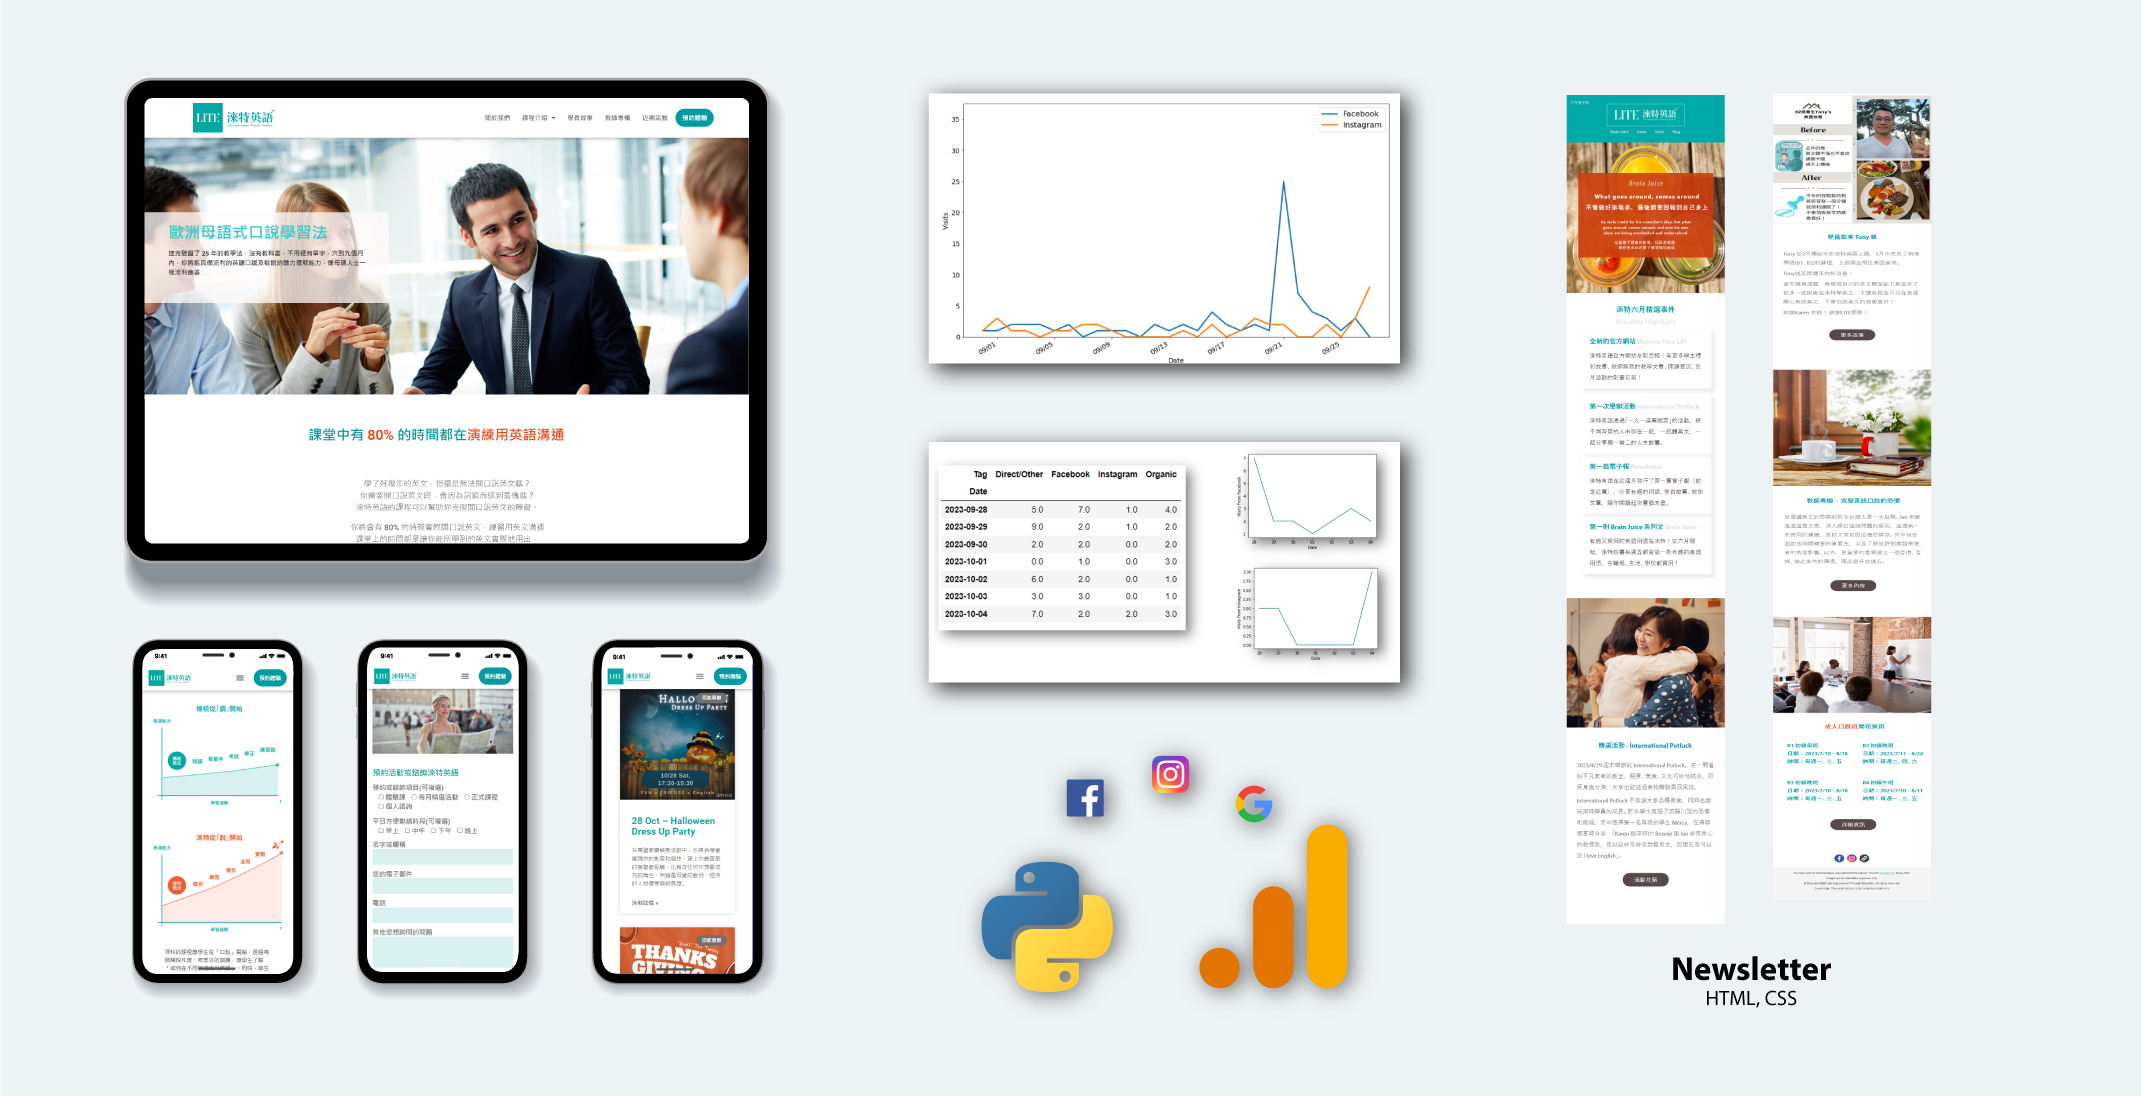
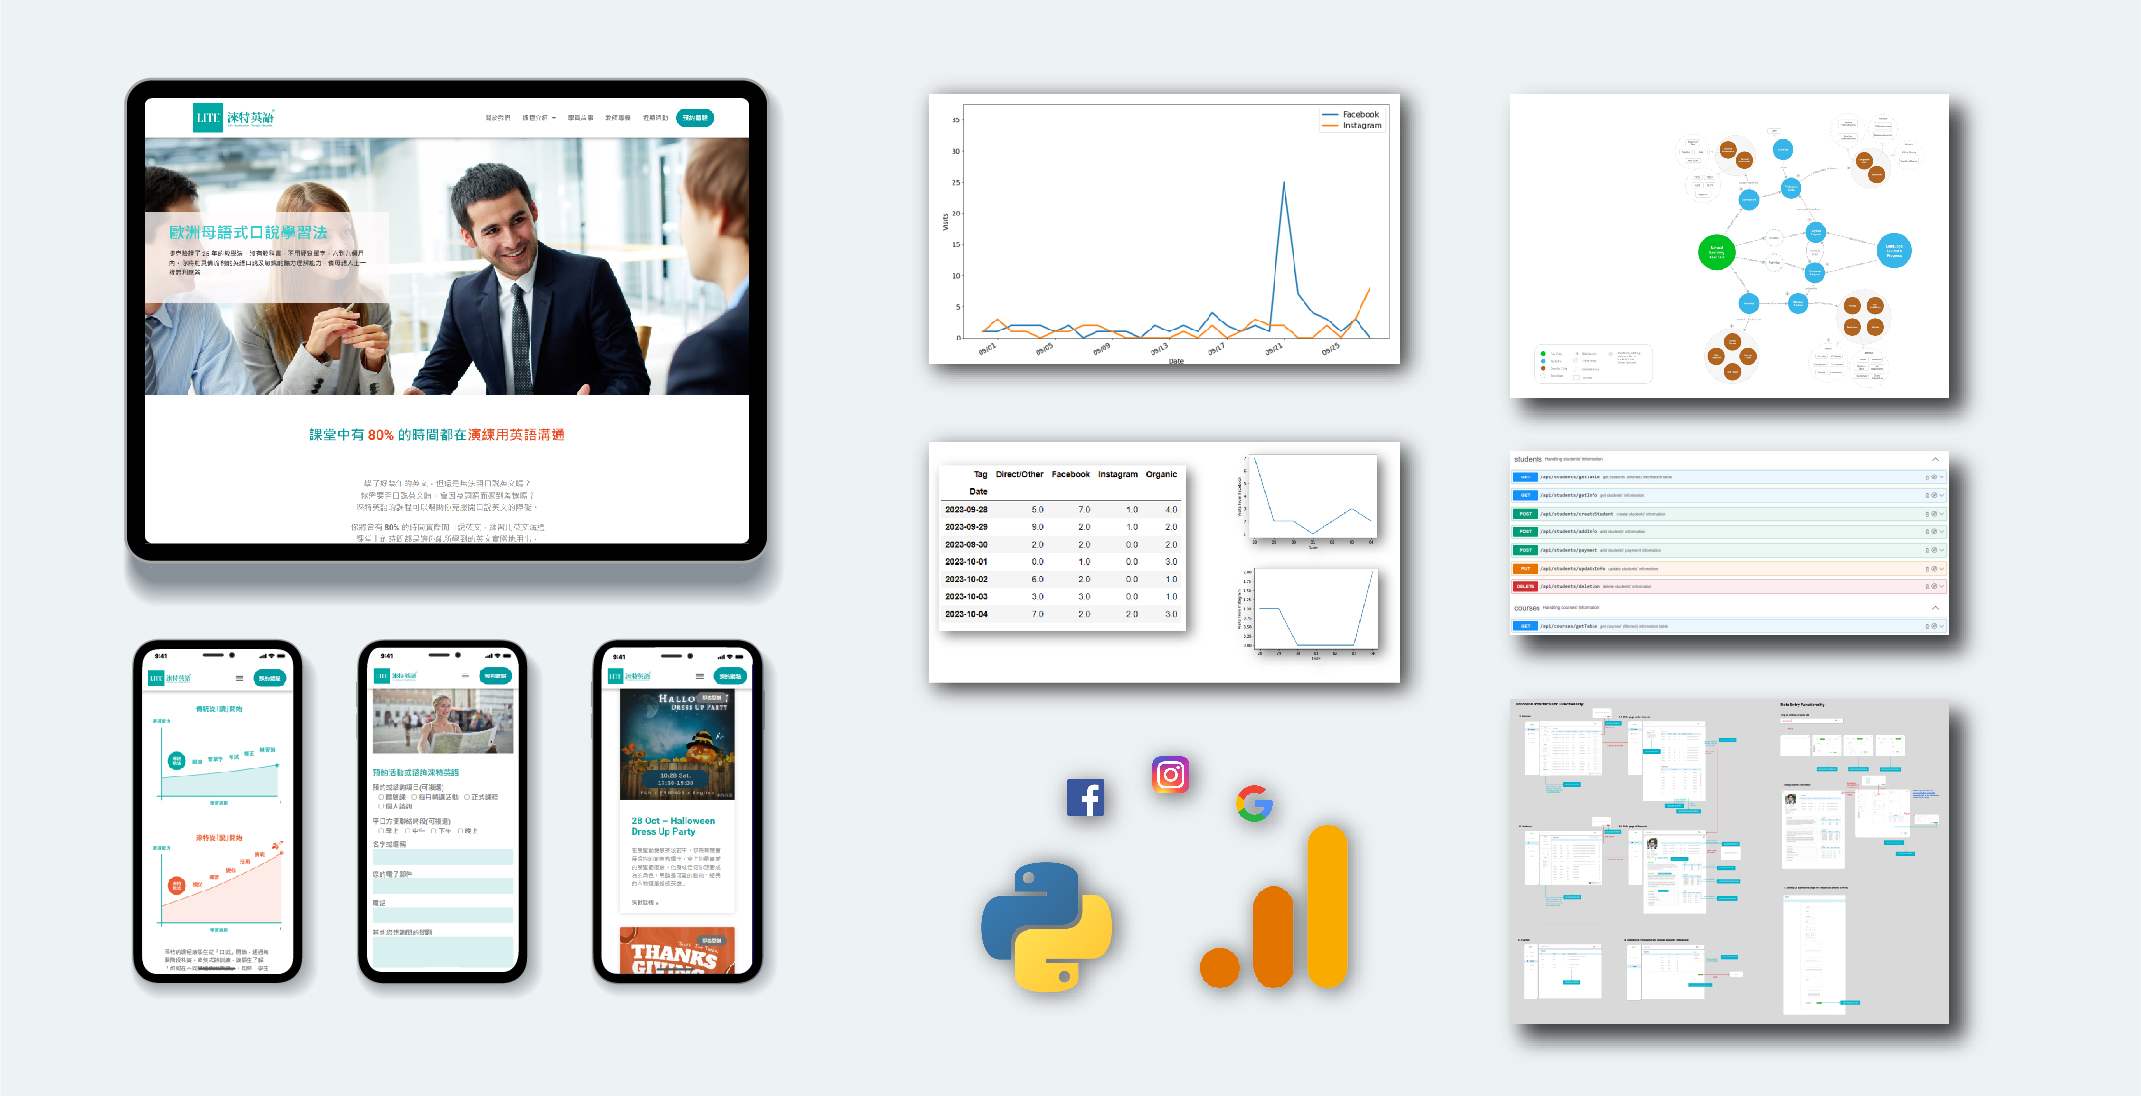
add LITE database

diff --git a/portfolio/3.js b/portfolio/3.js
@@ -32,6 +32,16 @@ TimeText.setAttribute('class' , 'paragraph-light')
 TimeText.textContent="April 2023"
 Container.appendChild(TimeText)
 
+ClientLabel = document.createElement('div')
+ClientLabel.setAttribute('class' , 'label')
+ClientLabel.textContent="client"
+Container.appendChild(ClientLabel)
+
+ClientText = document.createElement('div')
+ClientText.setAttribute('class' , 'paragraph-light')
+ClientText.textContent="LITE English School"
+Container.appendChild(ClientText)
+
 AuthorLabel = document.createElement('div')
 AuthorLabel.setAttribute('class' , 'label')
 AuthorLabel.textContent="who"
@@ -44,37 +54,32 @@ Container.appendChild(AuthorText)
 
 text = [
   {'tag':'div','class':'title','text':'Project at A Glance'},
-  {'tag':'div','class':'text','text':'1. Design and Build the Website'},     
+  {'tag':'div','class':'text','text':'1. Developing a Backend Management System to Streamline Administration'},     
   {'tag':'div','class':'text','text':'2. Automatic Traffic Report with Python and Google Analytics 4 API'}, 
   {'tag':'div','class':'text','text':'3. Optimize Customer Journey with Automation'}, 
-  {'tag':'div','class':'text','text':'4. Developing a Backend Management System to Streamline Administration'}, 
-  {'tag':'div','class':'title','text':'1. Design and Build the Website'}, 
-  {'tag':'div','class':'title','text':'Problem Statement'}, 
-  {'tag':'div','class':'text','text':'The English school had a one-page website. However, the structure of the website deterred them from the inclusion of Goolge Search. They needed a new website with more pages and themes so that it could be included in Google Search. Also, they would like to implement Digital Marketing, tracking the flow of online visitors.'},      
-  {'tag':'div','class':'title','text':'Design Concept'}, 
-  {'tag':'div','class':'text','text':'The purpose of the website was quite consumer-oriented. I needed to shorten the user journey to prompt users to leave contact information in the shortest period of time possible after they skimmed through our web content. In addition, two things really matter - brand image and credibility, so we put some sections to boost them.'},
-  {'tag':'div','class':'title','text':'Design Phases'}, 
-  {'tag':'img','src':"../image/design_phase_3.jpg"},    
-  {'tag':'div','class':'boldText','text':'Phase 1 - Emphasize'},
-  {'tag':'div','class':'text','text':'English teaching is a red sea market in Taiwan. What is more, now people use online platforms to learn English. It became a disadvantage for this English school since they insisted students learn English face-to-face. Therefore, I did competitive analysis and sorted out their advantages and unique selling points. I also reviewed some testimonials from students who attended the class in the headquater.'},
-   {'tag':'img','src':"../image/competitive_analysis_p3.jpg"},  
-   {'tag':'img','src':"../image/Testimonials_p3.jpg"},  
-  {'tag':'div','class':'boldText','text':'Phase 2 - Define'},
-  {'tag':'div','class':'text','text':'At the stage, we discovered some problems we should prioritize in building the website. First, English learning was an extremely competitive market. For a latecomer, we should have a unique value proposition. Second, we should expose our website properly so that people could find us. Third, it matters to build credibility, especially for a new English school.'},
-     {'tag':'img','src':"../image/Value_proposition_p3.jpg"}, 
-  {'tag':'div','class':'boldText','text':'Phase 3 - Ideate'},
-  {'tag':'div','class':'text','text':"To solve the problems we've listed at the previous stage, I discussed the information architecture with the English teachers. We decided to add two sections, Teachers' Blog and Events, other than About Us and Courses. By doing so, we expected to build our brand image and enhance credibility."},
-  {'tag':'img','src':"../image/information_architecture_p3.jpg"}, 
-  {'tag':'div','class':'text','text':"Judging from the advantages of this English school, we highlighted some keywords for SEO and value proposition. Every banner photo we chose should also suit the brand image. This English school was not positioned purely as a cram school. Instead, it aimed to create a 0% fear 100% confidence learning environment, in hope of equipping learners with the courage to learn other new things more than just English."},
-  {'tag':'div','class':'text','text':"Though they were a small company, they wanted to look like a trustworthy and credible company. Therefore, we decided that consistency should be the key to the website. The colors, fonts, layouts and contents should follow a specific design rule."},
-  {'tag':'div','class':'text','text':"Finally, we expected to open an article section where they could continuously upload articles about idioms, phrases, etc. In fact, there were hundreds of people looking for a proper English word to capture the meaning of their thoughts they could only express in Chinese. With the section, we could allow this kind of audience to reach our website."},
-    {'tag':'img','src':"../image/article_p3.jpg"},
-  {'tag':'div','class':'boldText','text':'Phase 4 - Prototype and Test'},
-  {'tag':'div','class':'text','text':'I used Adobe XD to make the low-fidelity prototype in the first place. Once I made sure those English teachers were on the same page, I moved on to create high-fidelity prototype. After the functionality and design were all confirmed and tested, I used Wordpress to build the webiste.'},
-  {'tag':'img','src':"../image/prototype_p3.jpg"},
+  {'tag':'div','class':'text','text':'4. Design and Build the Website'}, 
 
+  {'tag':'div','class':'title','text':'1. Developing a Backend Management System to Streamline Administration'}, 
+  {'tag':'div','class':'text','text':"To design a intranet management system, I adopted user research and information architecture evaluation approaches. It involved qualitative research to delve into the problem space. I interviewed the stakeholdes back and forth for many times and came up with two domain models, one of which focuses on the technical aspect and the other user aspect."},
+  {'tag':'img','src':"../image/LITE_domain_model_1.jpg"},
+  {'tag':'div','class':'text','text':"The domain model is based on the thematic findings of the interview data. It illustrates user-centered perspectives and the relationship between each stakeholders and domains."},
+  {'tag':'img','src':"../image/LITE_domain_model_2.jpg"},
+  {'tag':'div','class':'text','text':"Drawing upon the thematic findings, I looked into the problem space and designed the technical domain model, which could be a reference for database design."},
+  {'tag':'img','src':"../image/LITE_sitemap.jpg"},
+  {'tag':'div','class':'text','text':"Considering the information the client relied on for business operation, I designed the sitemap with the database structure seamlessly taking into account. This sitemap is suitable for developers. For my client who didn't have strong technical backgrounds, I made another one to explain the concept. The one for the client is as follows."},
+  {'tag':'img','src':"../image/LITE_sitemap2.jpg"},
+  {'tag':'div','class':'text','text':"The same applied to user journey. I tend to make one for developers and another one for my client. In this way, I can mitigate the risk of design-development gap and streamline the development process."},
+  {'tag':'img','src':"../image/LITE_userJourney.jpg"},
+  {'tag':'div','class':'text','text':"The one below was for my client."},
+  {'tag':'img','src':"../image/LITE_userJourney2.jpg"},
+  {'tag':'div','class':'text','text':"Now it's time to sketch the wireframe and conduct user study. It was an iterative process. Every time a user study was conducted or a client was interviewed, there were new or change of features. After we came to a consensus, I combined the frontned technical requirements with the backend, composing the API documents for clearer frontend information management and integrating them into a design document. The one below is the database structure."},
+  {'tag':'img','src':"../image/LITE_database.jpg"},
+  {'tag':'div','class':'text','text':"The API document below was used to orchestrate with the database and the backend."},
+  {'tag':'img','src':"../image/LITE_API.jpg"},
+  {'tag':'div','class':'text','text':"The technical requirements for API endpoints were annotated on the wireframe. It provides a thorough and comprehensive view of the technical implementation."},
+  {'tag':'img','src':"../image/LITE_designDoc.jpg"},
 
-
+ 
   {
   'tag':'div',
   'class':'title',
@@ -145,9 +150,32 @@ text = [
    {'tag':'div','class':'text','text':"Lastly, in case the consumer shows willingness to enroll but forgets to add LINE, I set up LINE Notify to direct contact form messages from email to LINE. At this point, the founder could check her smartphone for inquires. If she thought the person has high potential, she could contact them directly via phone numbers. The big picture is as follows."},
    {'tag':'img','src':"../image/line_notify.jpg"},
     {'tag':'div','class':'text','text':"By doing so, the founder doesn't need to check the email to reply to inquires from time to time. The practice allows for automatical broadcast of high-potential consumer contact info to her."},
-   {'tag':'div','class':'title','text':'4. Developing a Backend Management System to Streamline Administration'}, 
-   {'tag':'div','class':'text','text':"In progress...currently at the user research stage"},
-
+   
+    {'tag':'div','class':'title','text':'4. Design and Build the Website'}, 
+    {'tag':'div','class':'title','text':'Problem Statement'}, 
+    {'tag':'div','class':'text','text':'The English school had a one-page website. However, the structure of the website deterred them from the inclusion of Goolge Search. They needed a new website with more pages and themes so that it could be included in Google Search. Also, they would like to implement Digital Marketing, tracking the flow of online visitors.'},      
+    {'tag':'div','class':'title','text':'Design Concept'}, 
+    {'tag':'div','class':'text','text':'The purpose of the website was quite consumer-oriented. I needed to shorten the user journey to prompt users to leave contact information in the shortest period of time possible after they skimmed through our web content. In addition, two things really matter - brand image and credibility, so we put some sections to boost them.'},
+    {'tag':'div','class':'title','text':'Design Phases'}, 
+    {'tag':'img','src':"../image/design_phase_3.jpg"},    
+    {'tag':'div','class':'boldText','text':'Phase 1 - Emphasize'},
+    {'tag':'div','class':'text','text':'English teaching is a red sea market in Taiwan. What is more, now people use online platforms to learn English. It became a disadvantage for this English school since they insisted students learn English face-to-face. Therefore, I did competitive analysis and sorted out their advantages and unique selling points. I also reviewed some testimonials from students who attended the class in the headquater.'},
+     {'tag':'img','src':"../image/competitive_analysis_p3.jpg"},  
+     {'tag':'img','src':"../image/Testimonials_p3.jpg"},  
+    {'tag':'div','class':'boldText','text':'Phase 2 - Define'},
+    {'tag':'div','class':'text','text':'At the stage, we discovered some problems we should prioritize in building the website. First, English learning was an extremely competitive market. For a latecomer, we should have a unique value proposition. Second, we should expose our website properly so that people could find us. Third, it matters to build credibility, especially for a new English school.'},
+       {'tag':'img','src':"../image/Value_proposition_p3.jpg"}, 
+    {'tag':'div','class':'boldText','text':'Phase 3 - Ideate'},
+    {'tag':'div','class':'text','text':"To solve the problems we've listed at the previous stage, I discussed the information architecture with the English teachers. We decided to add two sections, Teachers' Blog and Events, other than About Us and Courses. By doing so, we expected to build our brand image and enhance credibility."},
+    {'tag':'img','src':"../image/information_architecture_p3.jpg"}, 
+    {'tag':'div','class':'text','text':"Judging from the advantages of this English school, we highlighted some keywords for SEO and value proposition. Every banner photo we chose should also suit the brand image. This English school was not positioned purely as a cram school. Instead, it aimed to create a 0% fear 100% confidence learning environment, in hope of equipping learners with the courage to learn other new things more than just English."},
+    {'tag':'div','class':'text','text':"Though they were a small company, they wanted to look like a trustworthy and credible company. Therefore, we decided that consistency should be the key to the website. The colors, fonts, layouts and contents should follow a specific design rule."},
+    {'tag':'div','class':'text','text':"Finally, we expected to open an article section where they could continuously upload articles about idioms, phrases, etc. In fact, there were hundreds of people looking for a proper English word to capture the meaning of their thoughts they could only express in Chinese. With the section, we could allow this kind of audience to reach our website."},
+      {'tag':'img','src':"../image/article_p3.jpg"},
+    {'tag':'div','class':'boldText','text':'Phase 4 - Prototype and Test'},
+    {'tag':'div','class':'text','text':'I used Adobe XD to make the low-fidelity prototype in the first place. Once I made sure those English teachers were on the same page, I moved on to create high-fidelity prototype. After the functionality and design were all confirmed and tested, I used Wordpress to build the webiste.'},
+    {'tag':'img','src':"../image/prototype_p3.jpg"},
+  
    
 ]
 

diff --git a/portfolio/6.js b/portfolio/6.js
@@ -9,7 +9,7 @@ Section.appendChild(Container)
 
 titleText = document.createElement('div')
 titleText.setAttribute('class' , 'title')
-titleText.textContent="UX, Frontend - Network Graph Visualization"
+titleText.textContent="UX, Frontend - Knowledge Navigation Map"
 Container.appendChild(titleText)
 
 DescLabel = document.createElement('div')
@@ -20,7 +20,7 @@ Container.appendChild(DescLabel)
 
 DescText = document.createElement('div')
 DescText.setAttribute('class' , 'paragraph-light')
-DescText.textContent="The project is currently confidential."
+DescText.textContent="The knowledge navigation map is a truth tech product I developed with TiiQu, a London-based organization devoted for green and truth technology. During my study in London, I've got the opportunity to work with them. From a UX designer in the first place, a overall product designer and then the frontend engineer, eventually the lead of the whole frontend team, I've seen the product built from scratch. As more and more people devoted their time and efforts, we finally achieved the concept of turning knowledge into a map to defeat misinformation as we aim to let people know what they don't know and show them 'what they don't know they don't know.'"
 Container.appendChild(DescText)
 
 TimeLabel = document.createElement('div')
@@ -32,6 +32,16 @@ TimeText = document.createElement('div')
 TimeText.setAttribute('class' , 'paragraph-light')
 TimeText.textContent="2023"
 Container.appendChild(TimeText)
+
+ClientLabel = document.createElement('div')
+ClientLabel.setAttribute('class' , 'label')
+ClientLabel.textContent="client"
+Container.appendChild(ClientLabel)
+
+ClientText = document.createElement('div')
+ClientText.setAttribute('class' , 'paragraph-light')
+ClientText.textContent="TiiQu"
+Container.appendChild(ClientText)
 
 AuthorLabel = document.createElement('div')
 AuthorLabel.setAttribute('class' , 'label')

diff --git a/portfolio/1.js b/portfolio/1.js
@@ -32,6 +32,16 @@ TimeText.setAttribute('class' , 'paragraph-light')
 TimeText.textContent="January 2020"
 Container.appendChild(TimeText)
 
+ClientLabel = document.createElement('div')
+ClientLabel.setAttribute('class' , 'label')
+ClientLabel.textContent="client"
+Container.appendChild(ClientLabel)
+
+ClientText = document.createElement('div')
+ClientText.setAttribute('class' , 'paragraph-light')
+ClientText.textContent="InfoKeyVault Technology"
+Container.appendChild(ClientText)
+
 AuthorLabel = document.createElement('div')
 AuthorLabel.setAttribute('class' , 'label')
 AuthorLabel.textContent="who"

diff --git a/portfolio/4.js b/portfolio/4.js
@@ -33,6 +33,16 @@ TimeText.setAttribute('class' , 'paragraph-light')
 TimeText.textContent="August 2018"
 Container.appendChild(TimeText)
 
+ClientLabel = document.createElement('div')
+ClientLabel.setAttribute('class' , 'label')
+ClientLabel.textContent="client"
+Container.appendChild(ClientLabel)
+
+ClientText = document.createElement('div')
+ClientText.setAttribute('class' , 'paragraph-light')
+ClientText.textContent="Cryptocurrency Exchange"
+Container.appendChild(ClientText)
+
 AuthorLabel = document.createElement('div')
 AuthorLabel.setAttribute('class' , 'label')
 AuthorLabel.textContent="who"
